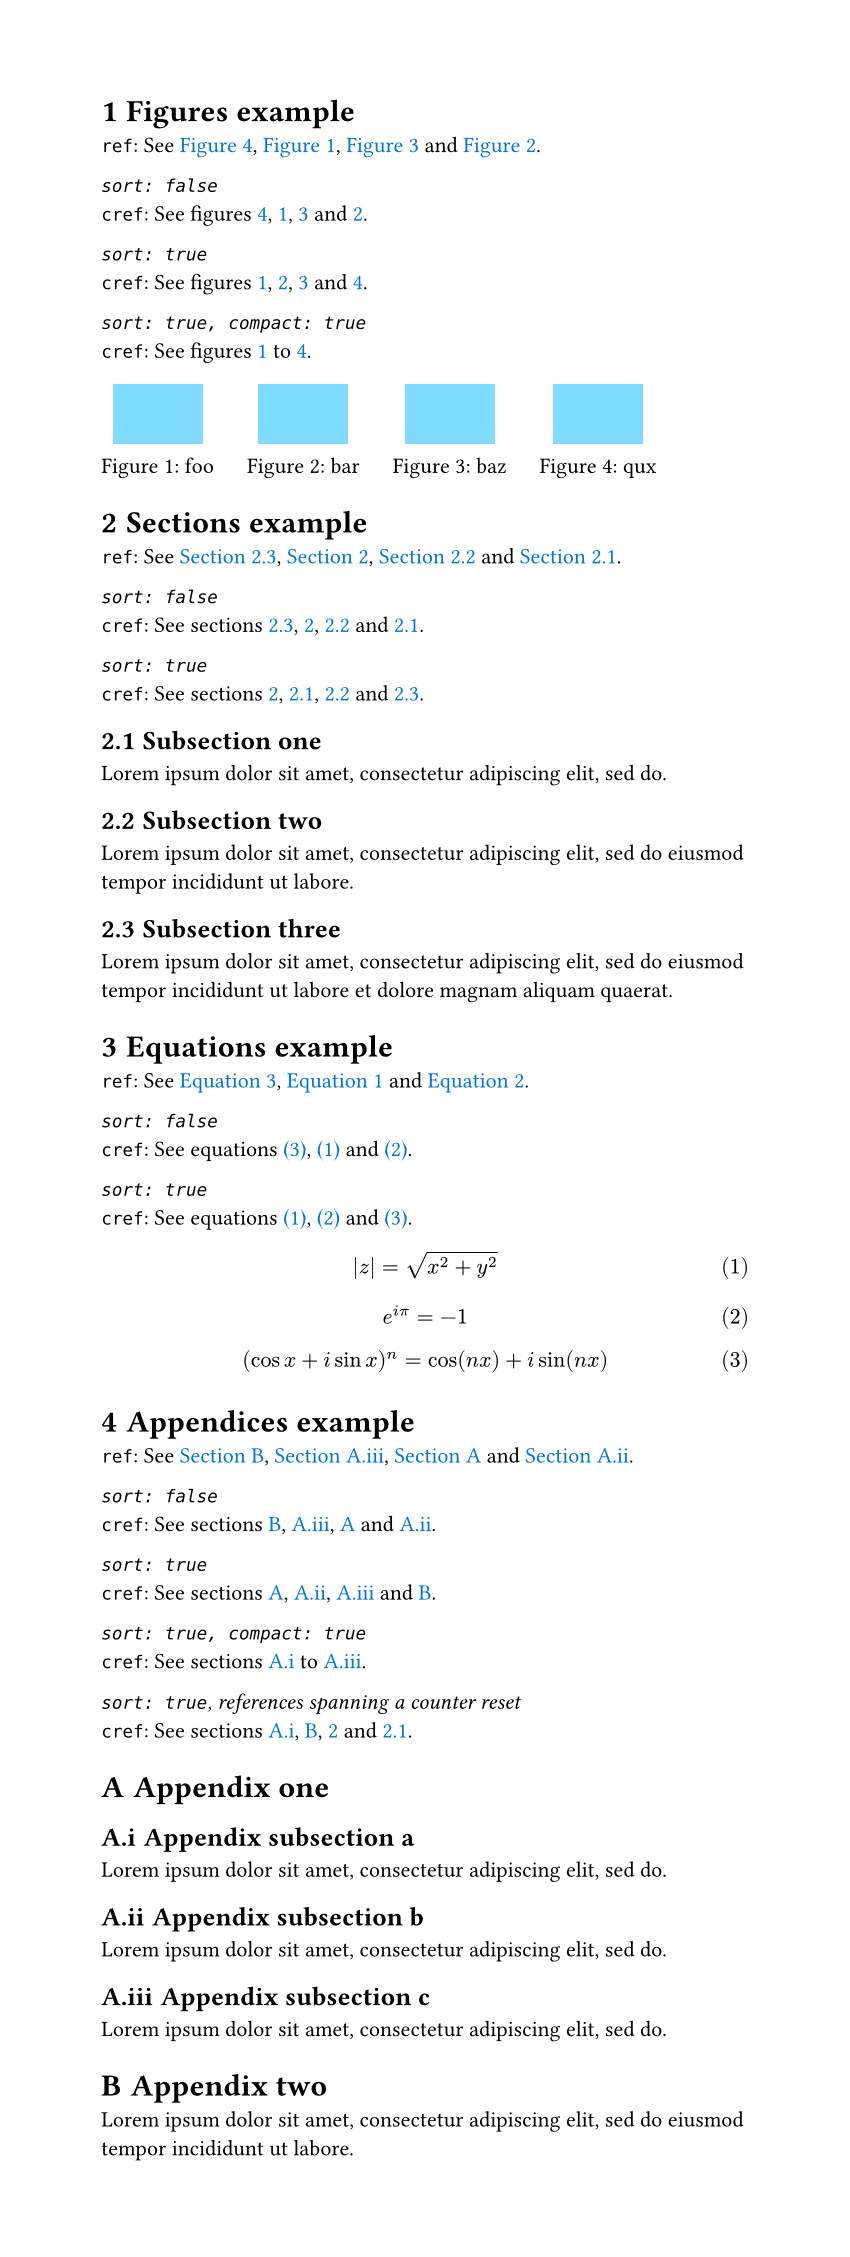
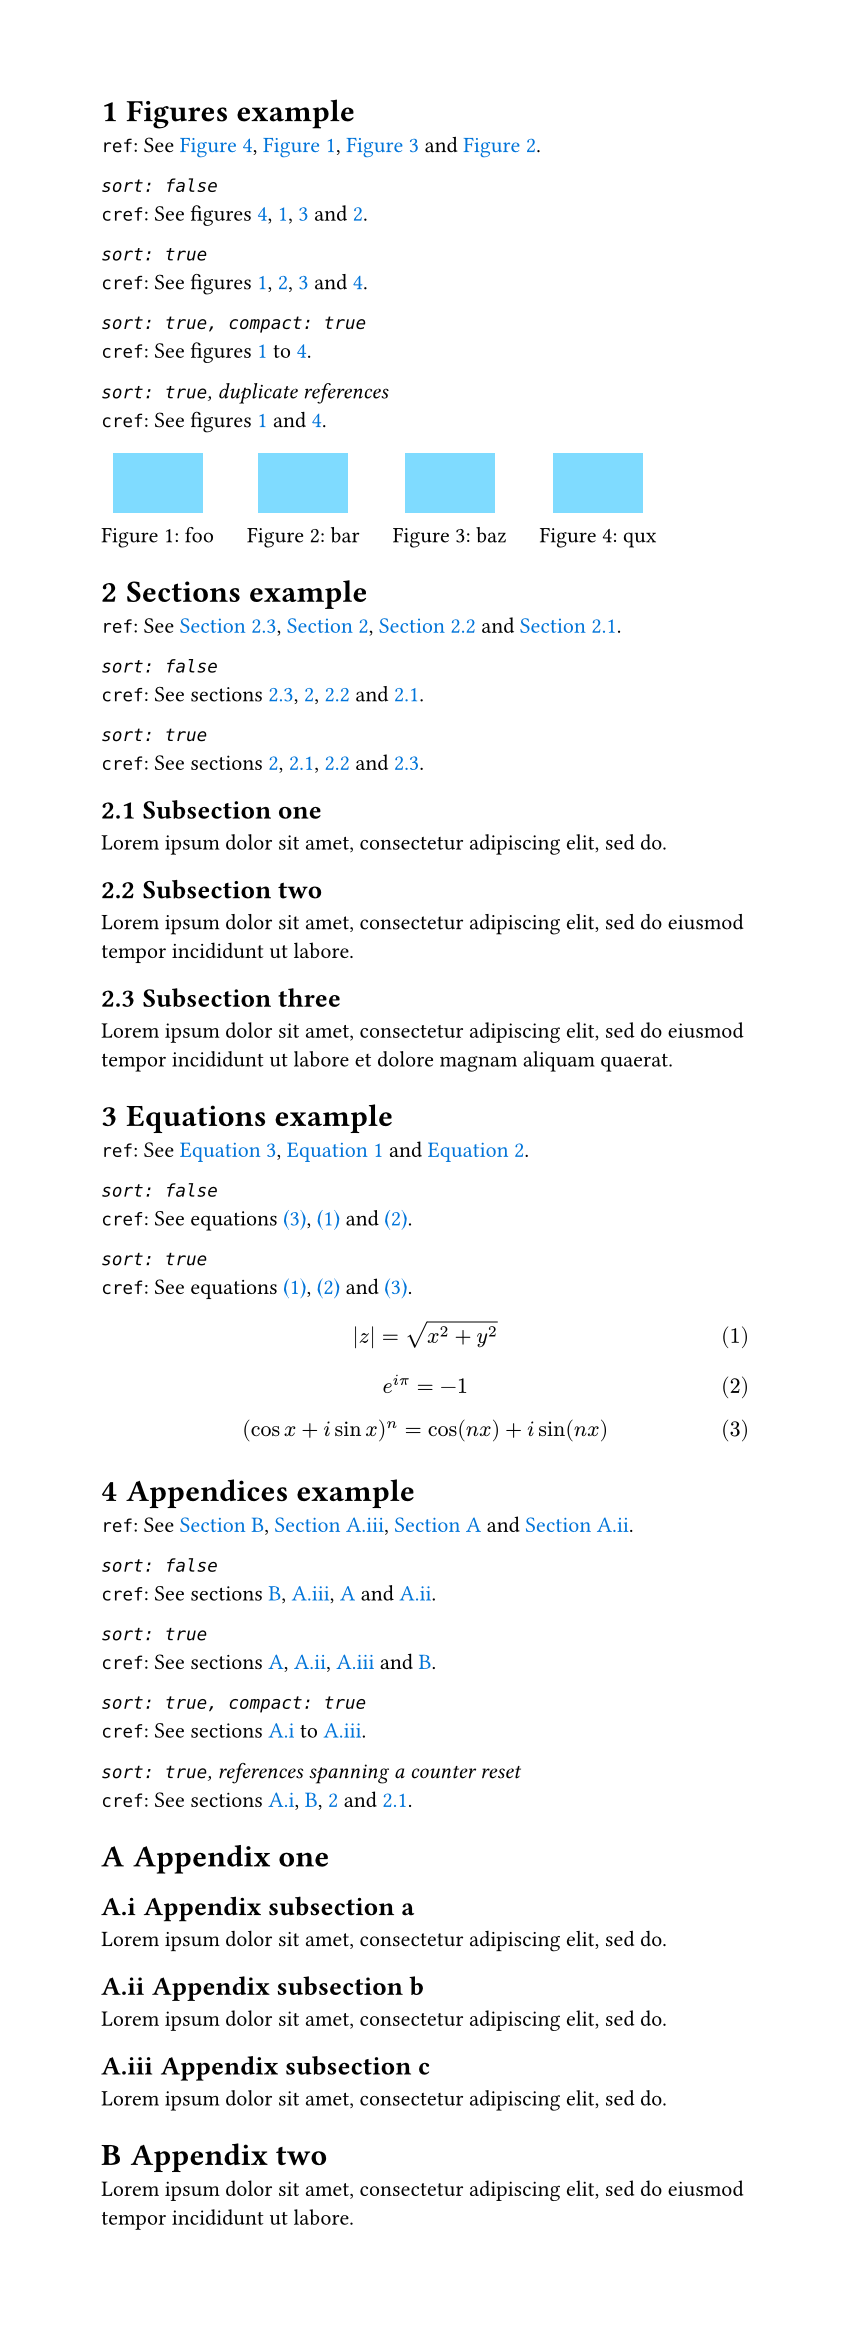
lib: sort with array.sorted and drop duplicate references
Typst compares arrays element by element, so `array.sorted` already
orders counter numberings correctly and the hand-rolled `nums-lt` and
insertion sort it was built on were redundant. The rationale given for
them in commit 6bb128c was wrong.

Sorting groups duplicate references together, which made compacting
render a number twice (e.g. "figs. 1 to 3 and 3"). Drop duplicates while
sorting, keyed on the label rather than the numbering, so that two
elements sharing a numbering across a counter reset (e.g. section 1 and
appendix A) are both kept.

Claude-Session: https://claude.ai/code/session_01SdPm38YF1HZjoTRR5qgFv7

diff --git a/README.md b/README.md
@@ -29,7 +29,8 @@ See [example/example-compact.typ](example/example-compact.typ).
 ## Sort references in numerical order
 
 References are sorted by counter value, so alphabetic ("A", "B", "C") and roman
-("i", "ii", "iii") numbering sort in the same order as decimal numbering.
+("i", "ii", "iii") numbering sort in the same order as decimal numbering. Sorting
+groups duplicate references together, and therefore removes them.
 
 See [example/example-sort.typ](example/example-sort.typ).
 
